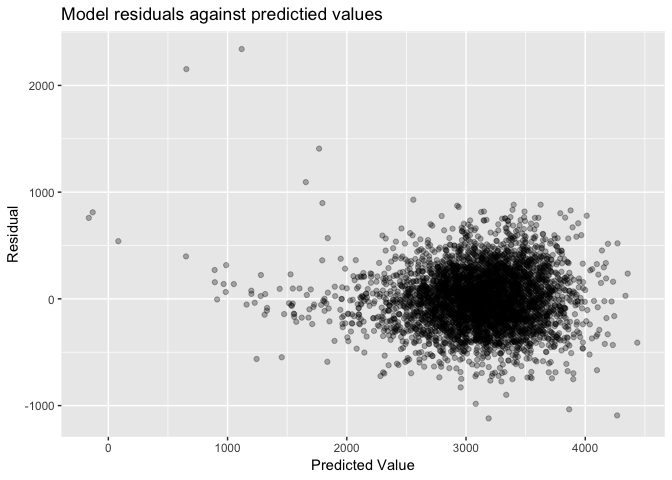
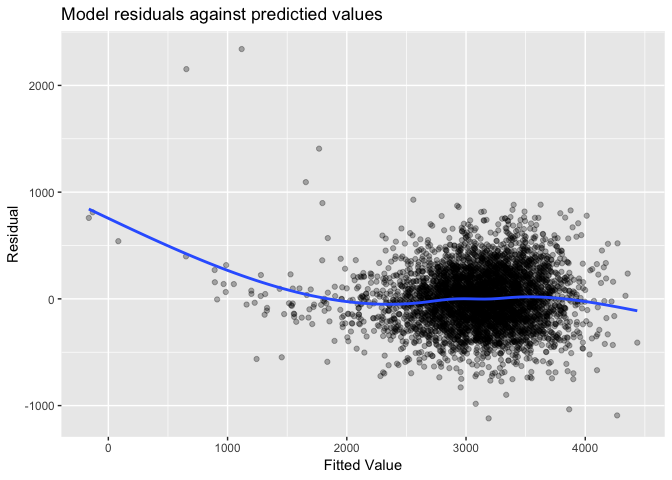
Add comments on the code.

diff --git a/hw6.md b/hw6.md
@@ -118,8 +118,10 @@ Problem 2
 ### Data cleaning
 
 ``` r
+# Read data into project and data cleaning
 birth_data = read_csv("file/birthweight.csv") %>% 
   janitor::clean_names() %>% 
+  # mutating the elements into factor since they are categorical data
   mutate(babysex = as.factor(babysex),
          frace = as.factor(frace),
          malform = as.factor(malform),
@@ -141,6 +143,7 @@ birth_data = read_csv("file/birthweight.csv") %>%
 First, read the file into R project and explore the correlation using `cor()`.
 
 ``` r
+# Run cor() to have a brief overview of the correlation of predictors.
 read_csv("file/birthweight.csv") %>% 
   select(-pnumlbw, -pnumsga) %>% 
   cor() %>% 
@@ -357,64 +360,30 @@ fit_model = fit_model3
 
 ### Ploting
 
-``` r
-modelr::add_residuals(birth_data, fit_model)
-```
-
-    ## # A tibble: 4,342 x 21
-    ##    babysex bhead blength   bwt delwt fincome frace gaweeks malform menarche
-    ##    <fct>   <int>   <int> <int> <int>   <int> <fct>   <dbl> <fct>      <int>
-    ##  1 2          34      51  3629   177      35 1        39.9 0             13
-    ##  2 1          34      48  3062   156      65 2        25.9 0             14
-    ##  3 2          36      50  3345   148      85 1        39.9 0             12
-    ##  4 1          34      52  3062   157      55 1        40   0             14
-    ##  5 2          34      52  3374   156       5 1        41.6 0             13
-    ##  6 1          33      52  3374   129      55 1        40.7 0             12
-    ##  7 2          33      46  2523   126      96 2        40.3 0             14
-    ##  8 2          33      49  2778   140       5 1        37.4 0             12
-    ##  9 1          36      52  3515   146      85 1        40.3 0             11
-    ## 10 1          33      50  3459   169      75 2        40.7 0             12
-    ## # ... with 4,332 more rows, and 11 more variables: mheight <int>,
-    ## #   momage <int>, mrace <fct>, parity <int>, pnumlbw <int>, pnumsga <int>,
-    ## #   ppbmi <dbl>, ppwt <int>, smoken <dbl>, wtgain <int>, resid <dbl>
+show a plot of model residuals against fitted values – use add\_predictions and add\_residuals in making this plot
 
 ``` r
-modelr::add_predictions(birth_data, fit_model)
-```
-
-    ## # A tibble: 4,342 x 21
-    ##    babysex bhead blength   bwt delwt fincome frace gaweeks malform menarche
-    ##    <fct>   <int>   <int> <int> <int>   <int> <fct>   <dbl> <fct>      <int>
-    ##  1 2          34      51  3629   177      35 1        39.9 0             13
-    ##  2 1          34      48  3062   156      65 2        25.9 0             14
-    ##  3 2          36      50  3345   148      85 1        39.9 0             12
-    ##  4 1          34      52  3062   157      55 1        40   0             14
-    ##  5 2          34      52  3374   156       5 1        41.6 0             13
-    ##  6 1          33      52  3374   129      55 1        40.7 0             12
-    ##  7 2          33      46  2523   126      96 2        40.3 0             14
-    ##  8 2          33      49  2778   140       5 1        37.4 0             12
-    ##  9 1          36      52  3515   146      85 1        40.3 0             11
-    ## 10 1          33      50  3459   169      75 2        40.7 0             12
-    ## # ... with 4,332 more rows, and 11 more variables: mheight <int>,
-    ## #   momage <int>, mrace <fct>, parity <int>, pnumlbw <int>, pnumsga <int>,
-    ## #   ppbmi <dbl>, ppwt <int>, smoken <dbl>, wtgain <int>, pred <dbl>
-
-``` r
+# plot reseduals against fitted values
 birth_data %>% 
   modelr::add_residuals(fit_model) %>% 
   modelr::add_predictions(fit_model) %>% 
   ggplot(aes(x = pred, y = resid)) +
-   geom_point(alpha = 0.3) +
+  geom_point(alpha = 0.3) +
+  geom_smooth(se = FALSE) +
   labs(
-      x = "Predicted Value",
+      x = "Fitted Value",
       y = "Residual",
       title = "Model residuals against predictied values"
   )
 ```
 
-![](hw6_files/figure-markdown_github/unnamed-chunk-13-1.png)
+    ## `geom_smooth()` using method = 'gam' and formula 'y ~ s(x, bs = "cs")'
+
+![](hw6_files/figure-markdown_github/unnamed-chunk-13-1.png) As shown in the plot, my model is not performing very well when the predicted value is less than 200, where the residuals are pretty high. However, as the predicted value grows, the residuals become steady and decreases. When the predicted valus is around 2000 and 4000, the residuals are gathered around 0, indicating the model fits well in this range.
 
 ### Comparing two model
+
+One using length at birth and gestational age as predictors (main effects only)
 
 ``` r
 fit_compare1 = 
@@ -442,6 +411,8 @@ summary(fit_compare1)
     ## Residual standard error: 333.2 on 4339 degrees of freedom
     ## Multiple R-squared:  0.5769, Adjusted R-squared:  0.5767 
     ## F-statistic:  2958 on 2 and 4339 DF,  p-value: < 2.2e-16
+
+One using head circumference, length, sex, and all interactions (including the three-way interaction) between these
 
 ``` r
 fit_compare2 =
@@ -480,11 +451,13 @@ summary(fit_compare2)
 Use cross validation to compare three models.
 
 ``` r
+# use cross_mc to form the train and test dataset.
 cv_df = 
   crossv_mc(birth_data, 100) %>% 
   mutate(train = map(train, as_tibble),
          test = map(test, as_tibble))
 
+# use map() to run the cross validation process
 cv_df = 
   cv_df %>% 
   mutate(fit_model    = map(train, ~lm(bwt ~ babysex + bhead + blength + delwt + gaweeks + mrace + parity + smoken, data = .x)),
@@ -503,7 +476,13 @@ cv_df %>%
   gather(key = model, value = rmse) %>% 
   mutate(model = str_replace(model, "rmse_", ""),
          model = fct_inorder(model)) %>% 
-  ggplot(aes(x = model, y = rmse)) + geom_violin()
+  ggplot(aes(x = model, y = rmse)) + 
+  geom_violin() +
+  labs(title = "Violin plots of RMSE", 
+       x = "Model", 
+       y = "RMSE")
 ```
 
 ![](hw6_files/figure-markdown_github/unnamed-chunk-17-1.png)
+
+As the violin plot shows, model 1 has the highest RMSE since the model predictors are too simple. For model 2, the RMSE seems lower than the first model which matches the result that the model adds the interaction of three prodictors. The model I fit in preforms better because it has the lowest RMSE.
